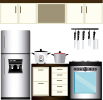
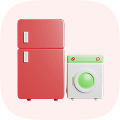
change product image in discover and also change privacy policy , terms conditions link

diff --git a/lib/features/common/Discover/view/widget/shopping_card_widget.dart b/lib/features/common/Discover/view/widget/shopping_card_widget.dart
@@ -17,11 +17,22 @@ import 'package:BlueEra/widgets/local_assets.dart';
 import 'package:flutter/material.dart';
 import 'package:get/get.dart';
 
-class ShoppingCardWidget extends StatelessWidget {
+class ShoppingCardWidget extends StatefulWidget {
   const ShoppingCardWidget({super.key});
 
   @override
+  State<ShoppingCardWidget> createState() => _ShoppingCardWidgetState();
+}
+
+class _ShoppingCardWidgetState extends State<ShoppingCardWidget> {
+  bool _showAll = false;
+
+  @override
   Widget build(BuildContext context) {
+    final allCategories = Get.find<AuthController>().businessOnboardingProductsCategories;
+    final showMoreButton = allCategories.length > 9;
+    final displayCategories = _showAll ? allCategories : allCategories.take(9).toList();
+
     return CustomFormCard(
         color: AppColors.whiteFC,
         padding: EdgeInsets.all(SizeConfig.size10),
@@ -35,15 +46,32 @@ class ShoppingCardWidget extends StatelessWidget {
                 SizedBox(
                   width: SizeConfig.size8,
                 ),
-                ViewAllButton(
-                  onTap: () => _showShoppingOptionDialog(context),
+                Row(
+                  mainAxisSize: MainAxisSize.min,
+                  children: [
+                    if (showMoreButton)
+                      GestureDetector(
+                        onTap: () => setState(() => _showAll = !_showAll),
+                        child: CustomText(
+                          _showAll ? AppStrings.showLess.tr : AppStrings.more.tr,
+                          fontSize: SizeConfig.medium,
+                          fontWeight: FontWeight.w600,
+                          color: AppColors.primaryColor,
+                        ),
+                      ),
+                    SizedBox(width: SizeConfig.size8),
+                    ViewAllButton(
+                      onTap: () => _showShoppingOptionDialog(context),
+                    ),
+                  ],
                 ),
               ],
             ),
             SizedBox(height: SizeConfig.paddingXSL),
             Padding(
               padding: const EdgeInsets.symmetric(horizontal: 18.0),
-              child: LayoutBuilder(builder: (context, constraints) {
+              child: LayoutBuilder(
+                  builder: (context, constraints) {
                 const double spacing = 6;
                 const int columns = 3;
                 final double itemWidth =
@@ -51,7 +79,7 @@ class ShoppingCardWidget extends StatelessWidget {
                 return Wrap(
                   spacing: spacing,
                   runSpacing: spacing,
-                  children: Get.find<AuthController>().businessOnboardingProductsCategories.take(9).map((categoryItem) {
+                  children: displayCategories.map((categoryItem) {
                     return SizedBox(
                       width: itemWidth,
                       child: CommonServiceCard(

diff --git a/lib/core/constants/app_image_assets.dart b/lib/core/constants/app_image_assets.dart
@@ -82,29 +82,30 @@ class AppImageAssets {
   static const String planTagIcon = '${imgPath}plan_tag_icon.png';
 
   /// Business products images
+  static String pharmacyMedicalStore = "${imgPath}pharmacy_medical_store_icon.png";
+
+  static String fashionLifestyle = "${imgPath}fashion_lifestyle_icon.png";
+
   static String furnitureHomeDecor = "${imgPath}furniture_home_decor_icon.png";
-  static String sportsFitnessStore = "${imgPath}sports_fitness_store_icon.png";
   static String jewelleryLuxuryStore = "${imgPath}jewellery_luxury_store_icon.png";
   static String automotiveStore = "${imgPath}automotive_store_icon.png";
   static String constructionHardware = "${imgPath}construction_hardware_icon.png";
   static String booksStationary = "${imgPath}books_stationary.png";
-  static String pharmacyMedicalStore = "${imgPath}pharmacy_medical_store_icon.png";
-  static String petSuppliesStore = "${imgPath}pet_supplies_store_icon.png";
   static String babyToysProductStore = "${imgPath}baby_toys_product_store_icon.png";
   static String electronicsApplianceStore = "${imgPath}electronics_appliance_store_icon.png";
-  static String constructionHomeEsse = "${imgPath}construction_home_esse_icon.png";
-  static String fashionLifestyle = "${imgPath}fashion_lifestyle_icon.png";
   static String beautyAndCosmetics = "${imgPath}beauty_and_cosmetics.png";
-  static String homeAppliances = "${imgPath}home_appliances.png";
-  static String homeKitchenAndUtensils = "${imgPath}home_kitchen_and_utensils.png";
-  static String packagingAndDisposable = "${imgPath}packaging_and_disposable.png";
-  static String agricultureAndFarming = "${imgPath}agriculture_and_farming.png";
-  static String industrialWholesale = "${imgPath}industrial_wholesale.png";
-  static String religiousAndSpeciality = "${imgPath}religious_and_speciality.png";
   static String mobileAccessories = "${imgPath}mobile_accessories.png";
-  static String artAndCraft = "${imgPath}art_and_craft.png";
+  static String artsCraftsSewing = "${imgPath}arts_crafts_sewing.png";
+  static String farmingLawnGarden = "${imgPath}farming_lawn_garden.png";
+  static String homeKitchenUtensils = "${imgPath}home_kitchen_utensils.png";
+  static String petSupplies = "${imgPath}pet_supplies.png";
+  static String toysGames = "${imgPath}toys_games.png";
+  static String homeAppliances = "${imgPath}home_appliances.png";
+  static String industrialWholesale = "${imgPath}industrial_wholesale.png";
   static String musicalInstruments = "${imgPath}musical_instruments.png";
-  static String toysAndGames = "${imgPath}toys_and_games.png";
+  static String sportsFitnessStore = "${imgPath}sports_fitness_store_icon.png";
+
+
 
   /// Business services images
   // static String consultingService = "${imgPath}consulting_service_icon.png";

diff --git a/lib/features/common/auth/controller/auth_controller.dart b/lib/features/common/auth/controller/auth_controller.dart
@@ -28,6 +28,7 @@ import 'package:BlueEra/features/common/auth/repo/auth_repo.dart';
 import 'package:BlueEra/features/common/feed/models/block_user_response.dart';
 import 'package:BlueEra/features/me/hospital/controller/hospital_service_ai_controller.dart';
 import 'package:BlueEra/features/me/hotel/controller/hotel_service_controller.dart';
+import 'package:flutter/foundation.dart';
 import 'package:geocoding/geocoding.dart';
 import 'package:BlueEra/features/me/laboratory/controller/lab_service_ai_controller.dart';
 import 'package:BlueEra/features/me/others/controller/business_profile_full_controller.dart';
@@ -1032,5 +1033,43 @@ class AuthController extends GetxController {
           break;
       }
     }
+
+    // 2. Call the debug printer
+    // debugPrintBusinessCategories();
+
   }
+
+  void debugPrintBusinessCategories() {
+    if (kDebugMode) {
+      final categoryGroups = {
+        'Services': businessOnboardingServicesCategories,
+        'Products': businessOnboardingProductsCategories,
+        'Groceries': businessOnboardingGroceriesCategories,
+        'Foods': businessOnboardingFoodsCategories,
+        'Manufacturing': businessOnboardingManufacturingCategories,
+        'Automotive': businessOnboardingAutomotiveServicesCategories,
+        'Healthcare': businessOnboardingHealthcareSectorsCategories,
+        'Hospitality': businessOnboardingHospitalityStayCategories,
+        'Education': businessOnboardingEducationTrainingCategories,
+        'Finance': businessOnboardingFinancialSectorsCategories,
+      };
+
+      log('=== BUSINESS CATEGORIES DEBUG START ===', name: 'CategorySync');
+
+      categoryGroups.forEach((name, list) {
+        if (list.isNotEmpty) {
+          log('--- $name (${list.length} items) ---', name: 'CategorySync');
+          for (var item in list) {
+            // Replace 'name' with whatever property identifies your CategoryData
+            log('  ID: ${item.id} | Title: ${item.name} | Tag Id: ${item.tagId}', name: 'CategorySync');
+          }
+        } else {
+          log('--- $name (Empty) ---', name: 'CategorySync');
+        }
+      });
+
+      log('=== BUSINESS CATEGORIES DEBUG END ===', name: 'CategorySync');
+    }
+    }
+
 }

diff --git a/lib/core/constants/app_constant.dart b/lib/core/constants/app_constant.dart
@@ -2235,22 +2235,17 @@ final List<OnboardingCategoryModel> businessOnboardingHospitalityStayCategories 
 
 /// tagId → local icon mapping for product categories
 final Map<String, String> productCategoryIcons = {
-  FASHION_LIFESTYLE: AppImageAssets.fashionLifestyle,
   ELECTRONICS_MOBILE_STORE: AppImageAssets.electronicsApplianceStore,
   FURNITURE_CONSTRUCTION: AppImageAssets.furnitureHomeDecor,
+  // FASHION_LIFESTYLE: AppImageAssets.fashionLifestyle, // will changed
+  FASHION_LIFESTYLE: AppImageAssets.artsCraftsSewing, // will changed
   JEWELRY_LUXURY_STORE: AppImageAssets.jewelleryLuxuryStore,
   BEAUTY_WELLNESS: AppImageAssets.beautyAndCosmetics,
   BOOKS_TOYS_BABY: AppImageAssets.booksStationary,
-  HOME_APPLIANCES_KITCHEN: AppImageAssets.homeKitchenAndUtensils,
+  HOME_APPLIANCES_KITCHEN: AppImageAssets.homeKitchenUtensils,
   SPORTS_FITNESS_STORE: AppImageAssets.sportsFitnessStore,
-  RELIGIOUS_AGRI_PETS: AppImageAssets.petSuppliesStore,
+  RELIGIOUS_AGRI_PETS: AppImageAssets.farmingLawnGarden,
   INDUSTRIAL_WHOLESALE: AppImageAssets.industrialWholesale,
-  ELECTRONICS_TECHNOLOGY: AppImageAssets.electronicsApplianceStore,
-  HOME_KITCHEN_FURNITURE: AppImageAssets.homeKitchenAndUtensils,
-  FASHION_BEAUTY_PERSONAL_CARE: AppImageAssets.beautyAndCosmetics,
-  BABY_KIDS_TOYS: AppImageAssets.babyToysProductStore,
-  SPORTS_HEALTH_OFFICE: AppImageAssets.sportsFitnessStore,
-  TOOLS_GARDEN_PET: AppImageAssets.constructionHardware,
 };
 
 String getProductCategoryIcon(String? tagId) {

diff --git a/lib/features/common/auth/views/screens/mobile_number_screen.dart b/lib/features/common/auth/views/screens/mobile_number_screen.dart
@@ -182,7 +182,7 @@ class _MobileNumberScreenState extends State<MobileNumberScreen> {
                                 ),
                                 recognizer: TapGestureRecognizer()
                                   ..onTap = () {
-                                    Get.to(CommonWebView(
+                                    Get.to(()=> CommonWebView(
                                       urlLink: tncLink,
                                       urlTitle: AppStrings.termsConditions.tr,
                                     ));
@@ -199,7 +199,7 @@ class _MobileNumberScreenState extends State<MobileNumberScreen> {
                                 ),
                                 recognizer: TapGestureRecognizer()
                                   ..onTap = () {
-                                    Get.to(CommonWebView(
+                                    Get.to(()=> CommonWebView(
                                       urlLink: privacyLink,
                                       urlTitle: AppStrings.privacyPolicy.tr,
                                     ));

diff --git a/lib/environment_config.dart b/lib/environment_config.dart
@@ -35,11 +35,11 @@ String googleGeoCode =
 String googleCountryCode = "&language=en&components=country:IN";
 String pinCodeUrl(String pinCode) => "https://api.postalpincode.in/pincode/$pinCode";
 
-String takeFranchise ="https://bluecs.in/partner";
+String takeFranchise = "https://bluecs.in/partner";
 String privacyLink =
-    "https://www.freeprivacypolicy.com/live/f1d1be8d-4563-43e0-9275-c439f46390ad";
+    "https://www.bluecs.in/privacypolicy";
 String tncLink =
-    "https://www.freeprivacypolicy.com/live/2c1f2002-02e5-4acc-8142-e371734c9d9c";
+    "https://www.bluecs.in/termscondition";
 String bdoTncLink =
     "https://bluecs.in/bdotc";
 
